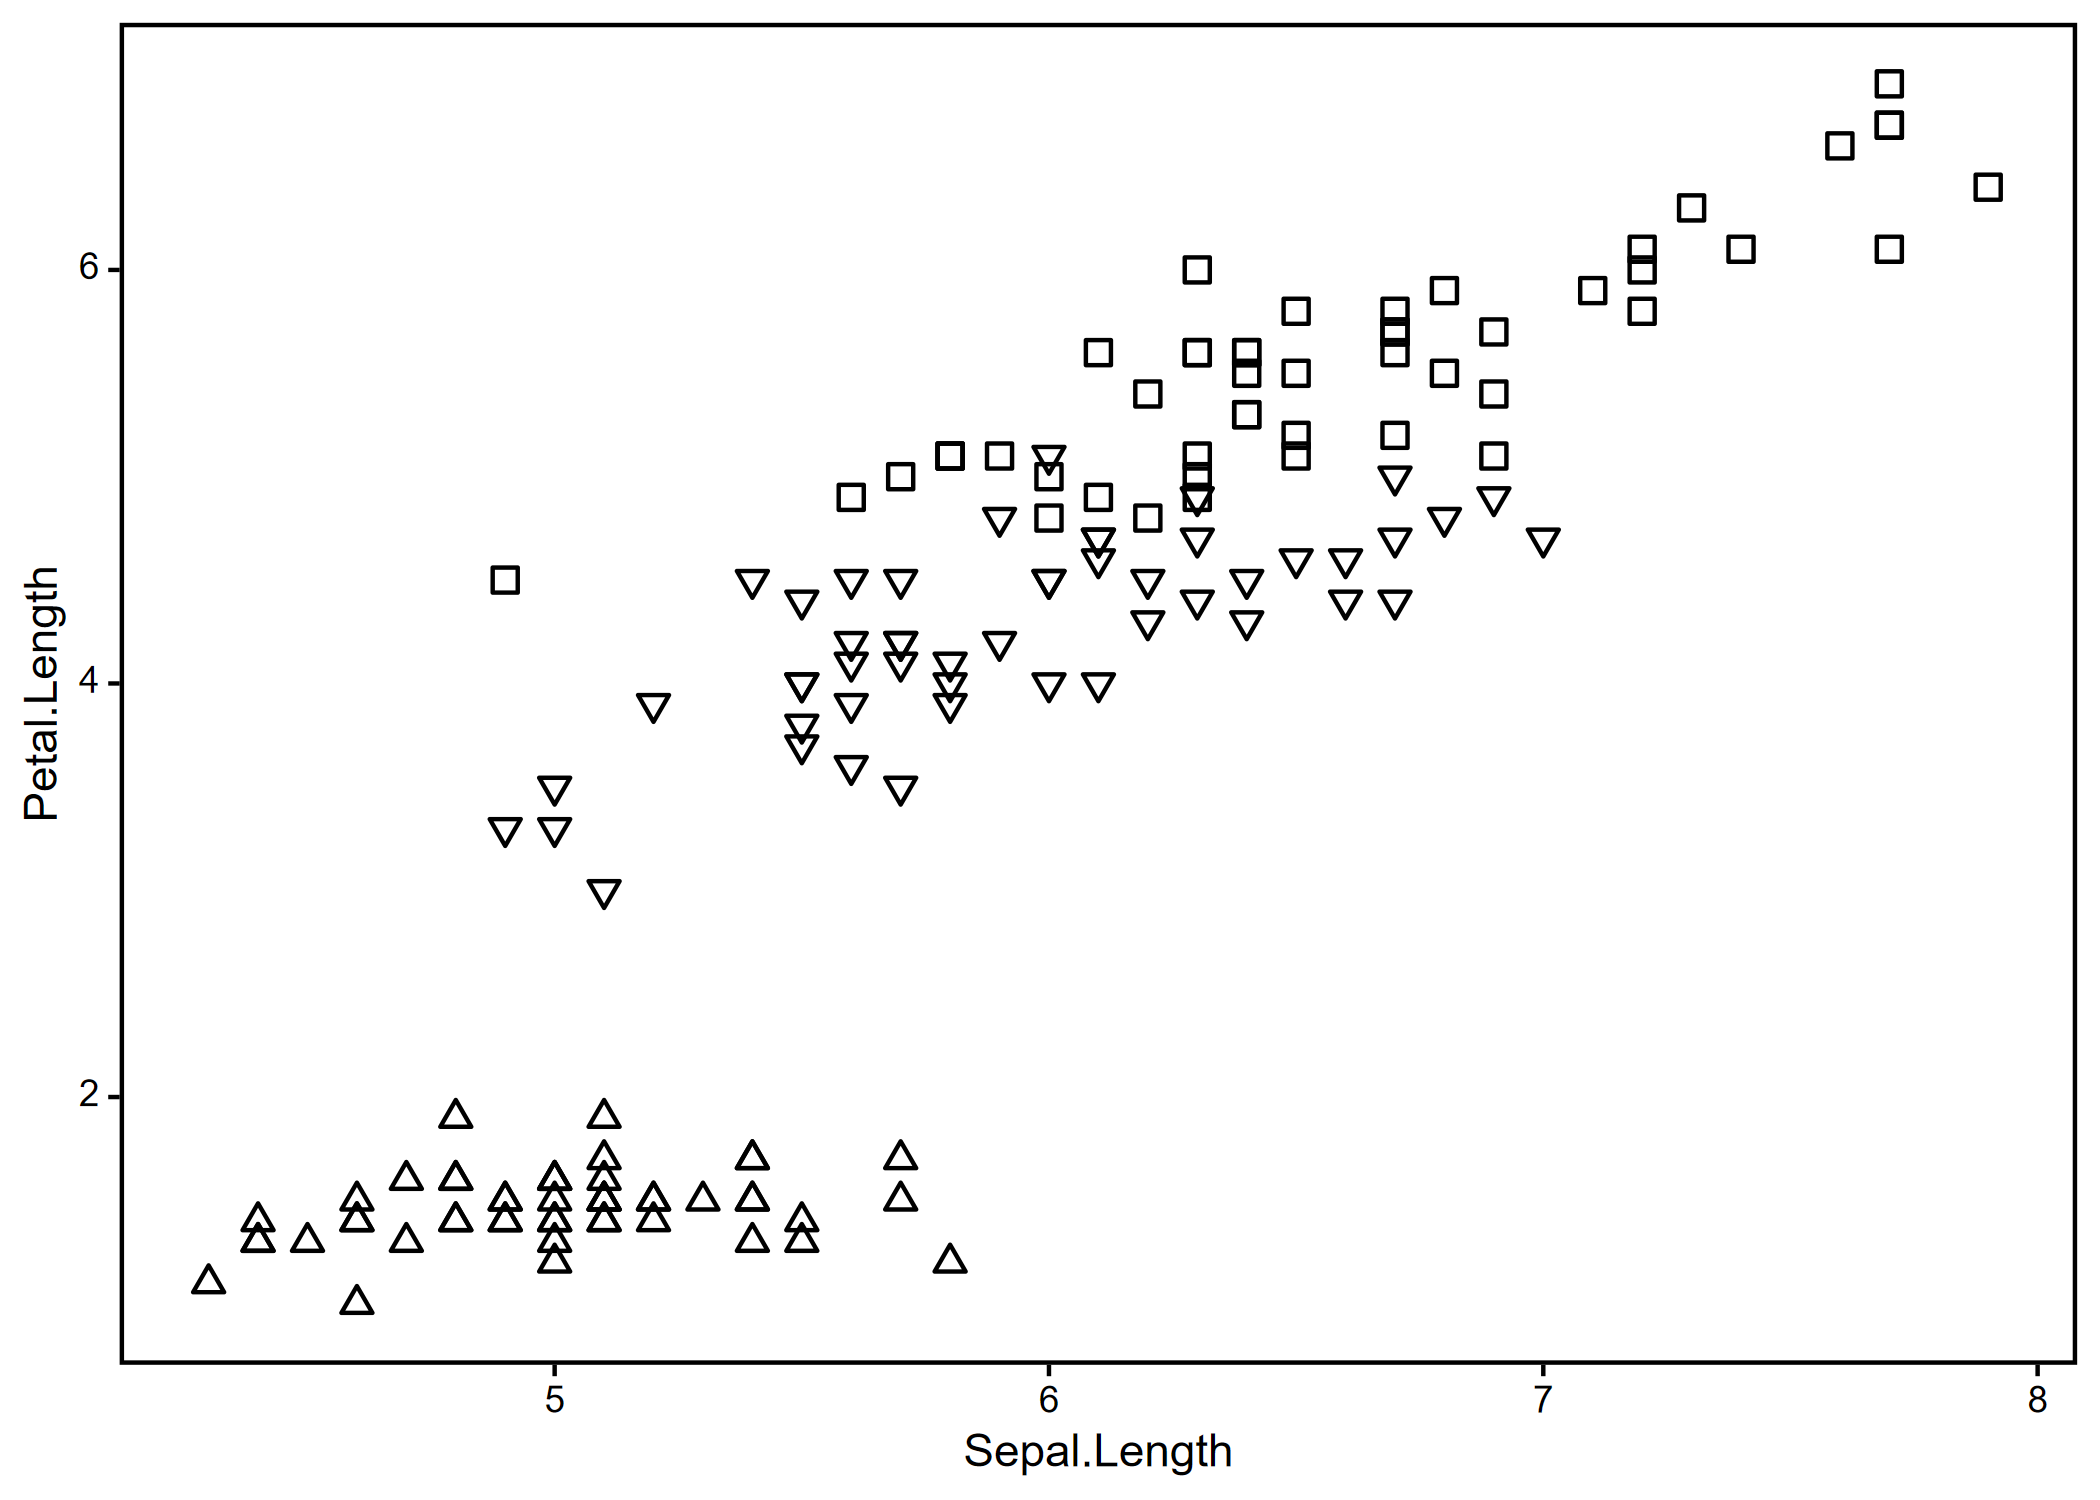
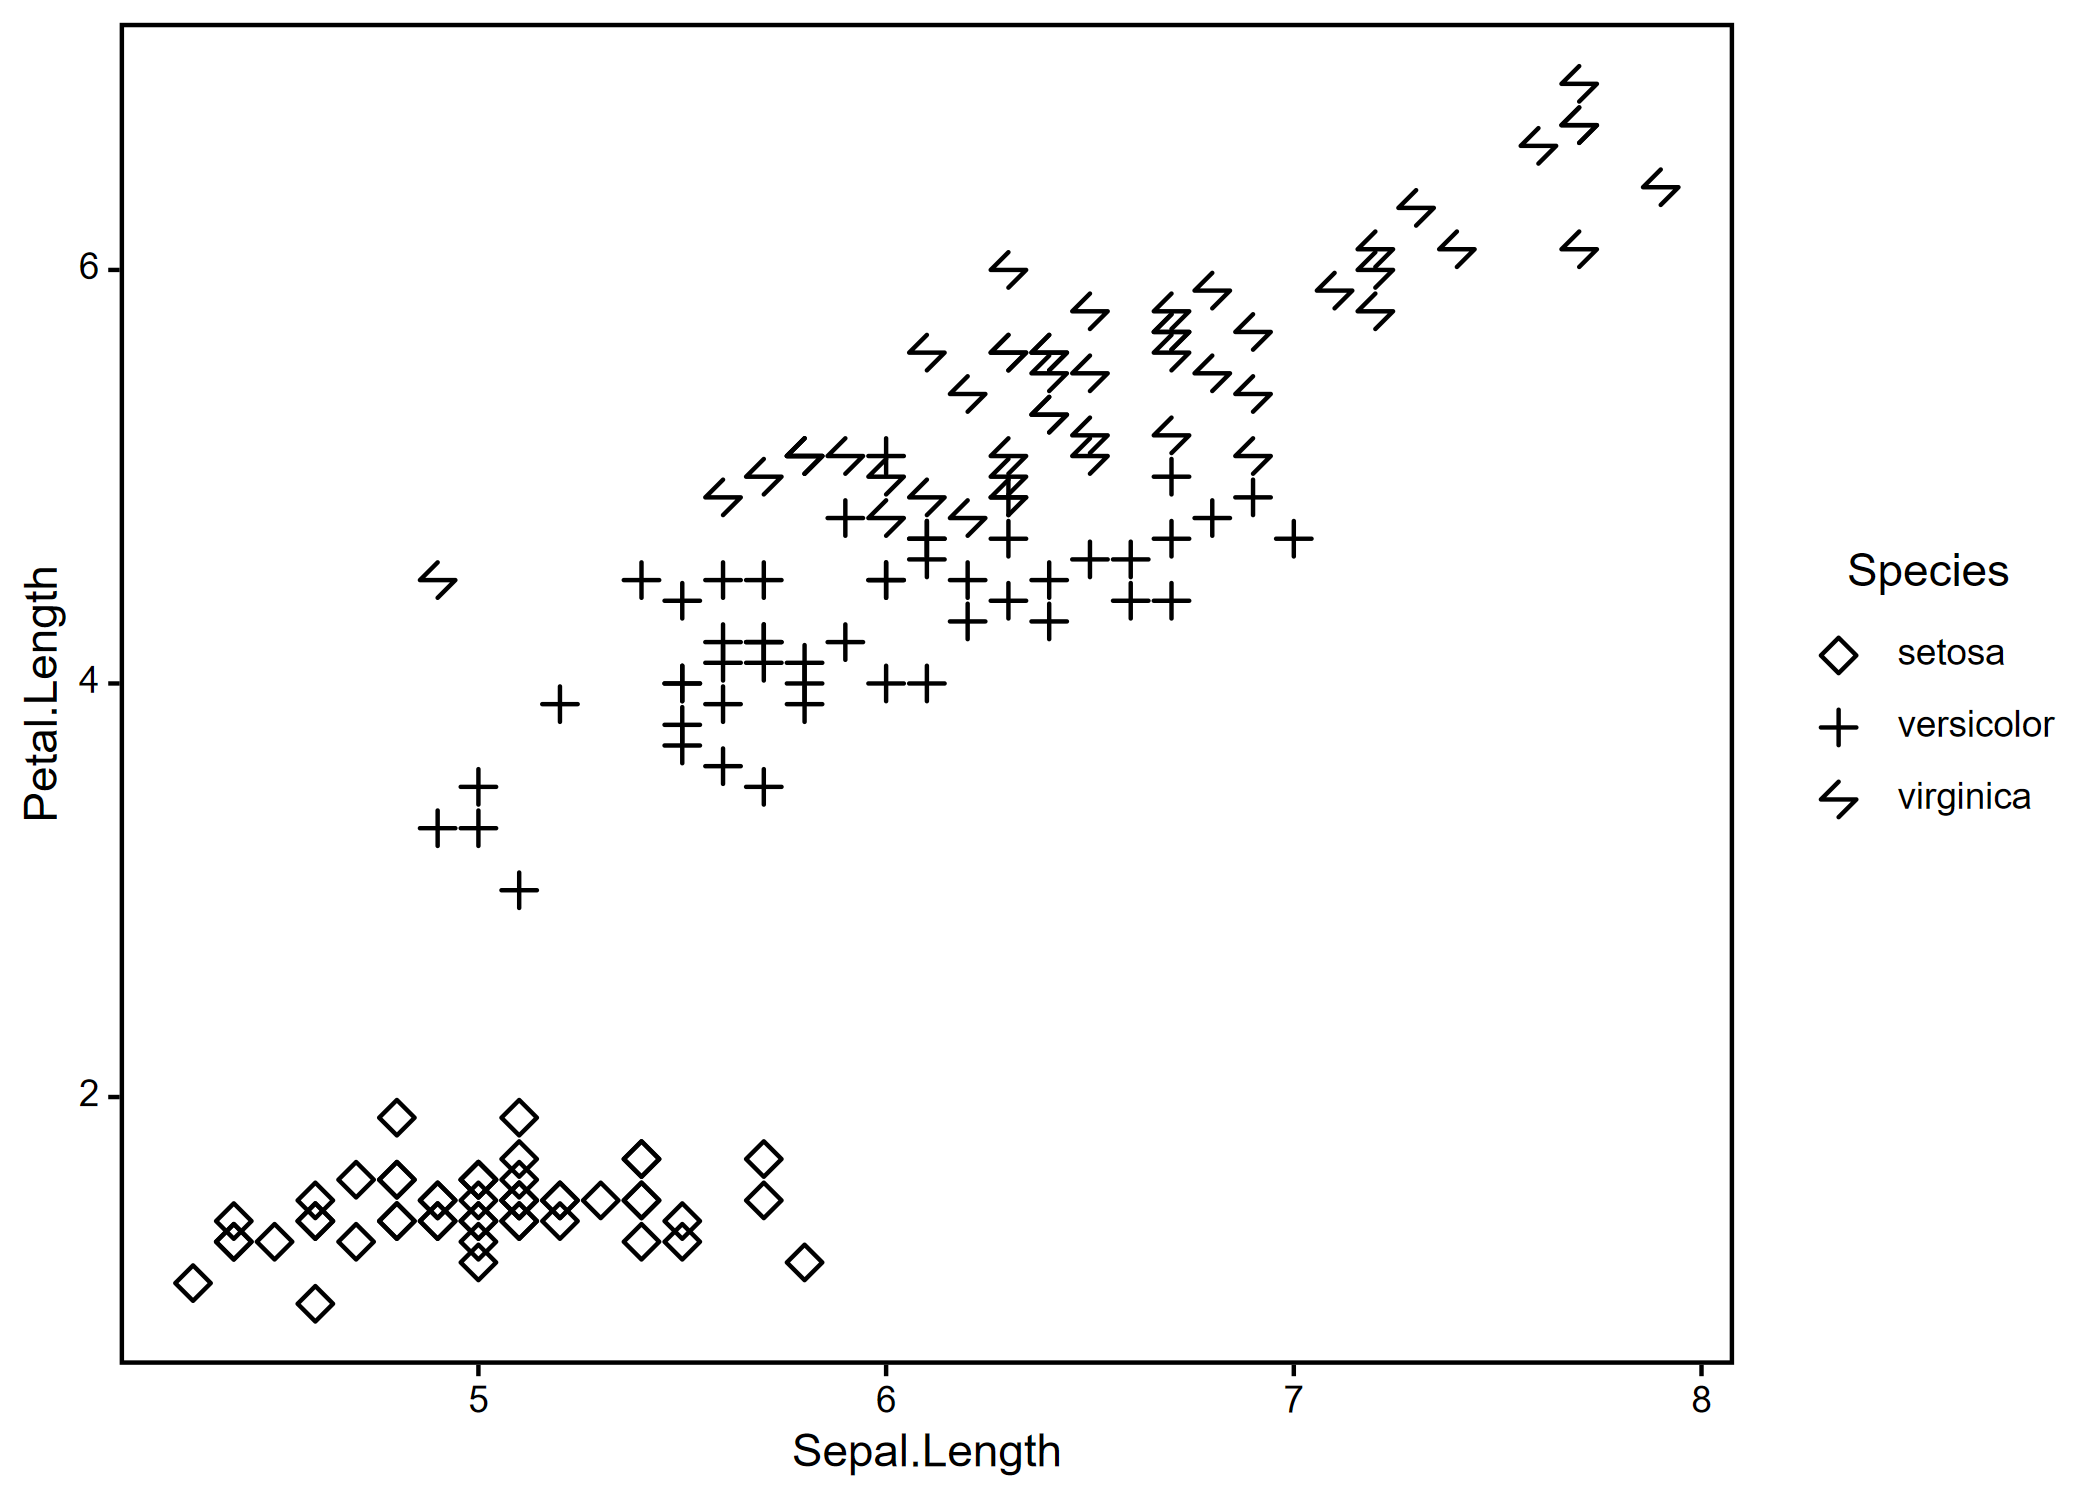
edit README plot

diff --git a/README.md b/README.md
@@ -33,6 +33,7 @@ library(plottwist2)
 
 ggplot(data = iris, aes(x = Sepal.Length, y = Petal.Length)) +
   geom_symbol(aes(symbol = Species)) +
+  scale_symbol_manual(values = c(12, 20, 28)) +
   theme_simple()
 ```
 
